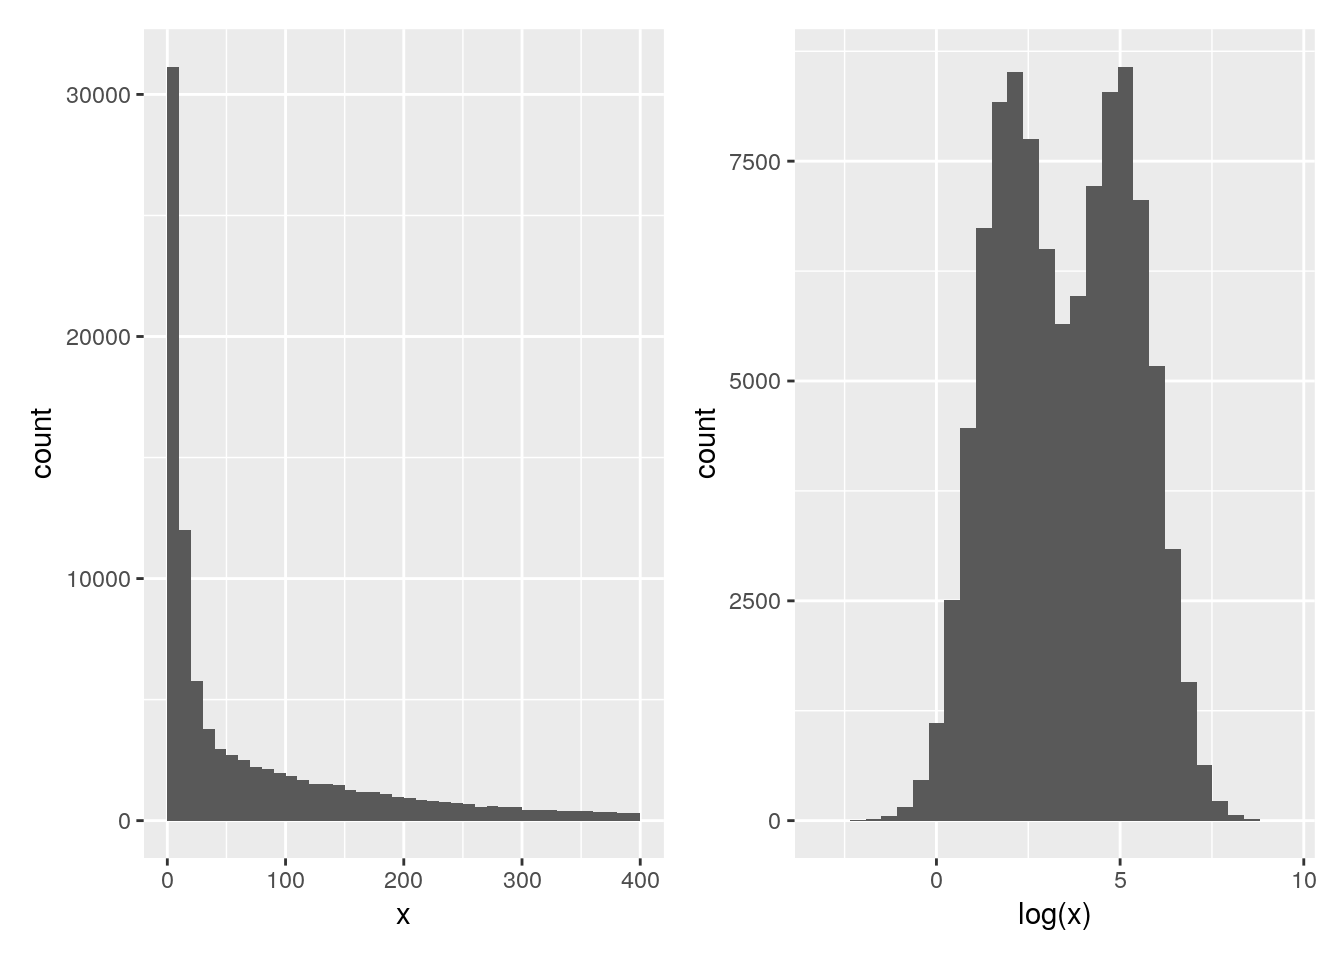
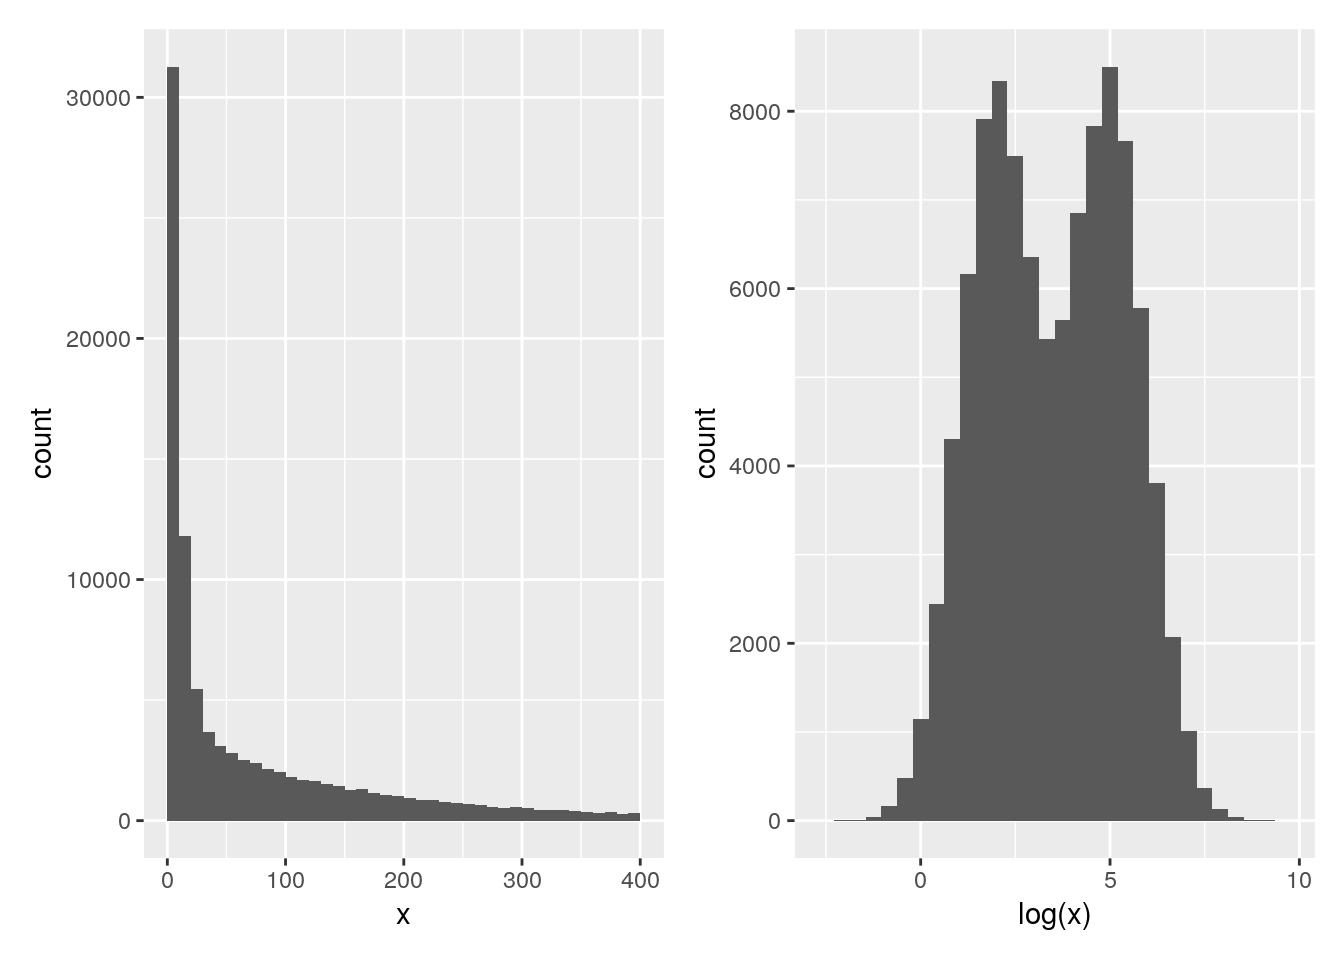
replace all gather() by pivot_longer()

diff --git a/docs/sec-norm.html b/docs/sec-norm.html
@@ -285,14 +285,16 @@ later) and reproduce the figures above. See <code>?cptac</code> for details .</p
 <a class="sourceLine" id="cb208-4" data-line-number="4"></a>
 <a class="sourceLine" id="cb208-5" data-line-number="5"><span class="kw">library</span>(<span class="st">"tidyverse"</span>)</a>
 <a class="sourceLine" id="cb208-6" data-line-number="6"><span class="kw">as_tibble</span>(<span class="kw">exprs</span>(cptac)) <span class="op">%&gt;%</span></a>
-<a class="sourceLine" id="cb208-7" data-line-number="7"><span class="st">    </span><span class="kw">gather</span>(<span class="dt">key =</span> sample, <span class="dt">value =</span> expression) <span class="op">%&gt;%</span></a>
-<a class="sourceLine" id="cb208-8" data-line-number="8"><span class="st">    </span><span class="kw">ggplot</span>(<span class="kw">aes</span>(<span class="dt">x =</span> expression, <span class="dt">colour =</span> sample)) <span class="op">+</span></a>
-<a class="sourceLine" id="cb208-9" data-line-number="9"><span class="st">    </span><span class="kw">geom_density</span>()</a>
-<a class="sourceLine" id="cb208-10" data-line-number="10"></a>
-<a class="sourceLine" id="cb208-11" data-line-number="11"><span class="kw">as_tibble</span>(<span class="kw">exprs</span>(cptac)) <span class="op">%&gt;%</span></a>
-<a class="sourceLine" id="cb208-12" data-line-number="12"><span class="st">    </span><span class="kw">gather</span>(<span class="dt">key =</span> sample, <span class="dt">value =</span> expression) <span class="op">%&gt;%</span></a>
-<a class="sourceLine" id="cb208-13" data-line-number="13"><span class="st">    </span><span class="kw">ggplot</span>(<span class="kw">aes</span>(<span class="dt">x =</span> <span class="kw">log2</span>(expression), <span class="dt">colour =</span> sample)) <span class="op">+</span></a>
-<a class="sourceLine" id="cb208-14" data-line-number="14"><span class="st">    </span><span class="kw">geom_density</span>()</a></code></pre></div>
+<a class="sourceLine" id="cb208-7" data-line-number="7"><span class="st">    </span><span class="kw">pivot_longer</span>(<span class="dt">names_to =</span> <span class="st">"sample"</span>, <span class="dt">values_to =</span> <span class="st">"expression"</span>,</a>
+<a class="sourceLine" id="cb208-8" data-line-number="8">                 <span class="kw">everything</span>()) <span class="op">%&gt;%</span></a>
+<a class="sourceLine" id="cb208-9" data-line-number="9"><span class="st">    </span><span class="kw">ggplot</span>(<span class="kw">aes</span>(<span class="dt">x =</span> expression, <span class="dt">colour =</span> sample)) <span class="op">+</span></a>
+<a class="sourceLine" id="cb208-10" data-line-number="10"><span class="st">    </span><span class="kw">geom_density</span>()</a>
+<a class="sourceLine" id="cb208-11" data-line-number="11"></a>
+<a class="sourceLine" id="cb208-12" data-line-number="12"><span class="kw">as_tibble</span>(<span class="kw">exprs</span>(cptac)) <span class="op">%&gt;%</span></a>
+<a class="sourceLine" id="cb208-13" data-line-number="13"><span class="st">    </span><span class="kw">pivot_longer</span>(<span class="dt">names_to =</span> <span class="st">"sample"</span>, <span class="dt">values_to =</span> <span class="st">"expression"</span>,</a>
+<a class="sourceLine" id="cb208-14" data-line-number="14">                 <span class="kw">everything</span>()) <span class="op">%&gt;%</span></a>
+<a class="sourceLine" id="cb208-15" data-line-number="15"><span class="st">    </span><span class="kw">ggplot</span>(<span class="kw">aes</span>(<span class="dt">x =</span> <span class="kw">log2</span>(expression), <span class="dt">colour =</span> sample)) <span class="op">+</span></a>
+<a class="sourceLine" id="cb208-16" data-line-number="16"><span class="st">    </span><span class="kw">geom_density</span>()</a></code></pre></div>
 <p class="solution-end">
 <span class="fa fa-square-o solution-icon"></span>
 </p>
@@ -530,14 +532,16 @@ the data, you can use the <code>normalise</code> function, defining <code>method
 <a class="sourceLine" id="cb222-3" data-line-number="3">cptac_quant &lt;-<span class="st"> </span><span class="kw">normalise</span>(cptac, <span class="dt">method =</span> <span class="st">"quantiles"</span>)</a>
 <a class="sourceLine" id="cb222-4" data-line-number="4"></a>
 <a class="sourceLine" id="cb222-5" data-line-number="5"><span class="kw">as_tibble</span>(<span class="kw">exprs</span>(cptac)) <span class="op">%&gt;%</span></a>
-<a class="sourceLine" id="cb222-6" data-line-number="6"><span class="st">    </span><span class="kw">gather</span>(<span class="dt">key =</span> sample, <span class="dt">value =</span> expression) <span class="op">%&gt;%</span></a>
-<a class="sourceLine" id="cb222-7" data-line-number="7"><span class="st">    </span><span class="kw">ggplot</span>(<span class="kw">aes</span>(<span class="dt">x =</span> expression, <span class="dt">colour =</span> sample)) <span class="op">+</span></a>
-<a class="sourceLine" id="cb222-8" data-line-number="8"><span class="st">    </span><span class="kw">geom_density</span>()</a></code></pre></div>
+<a class="sourceLine" id="cb222-6" data-line-number="6"><span class="st">    </span><span class="kw">pivot_longer</span>(<span class="dt">names_to =</span> <span class="st">"sample"</span>, <span class="dt">values_to =</span> <span class="st">"expression"</span>,</a>
+<a class="sourceLine" id="cb222-7" data-line-number="7">                 <span class="kw">everything</span>()) <span class="op">%&gt;%</span><span class="st"> </span></a>
+<a class="sourceLine" id="cb222-8" data-line-number="8"><span class="st">    </span><span class="kw">ggplot</span>(<span class="kw">aes</span>(<span class="dt">x =</span> expression, <span class="dt">colour =</span> sample)) <span class="op">+</span></a>
+<a class="sourceLine" id="cb222-9" data-line-number="9"><span class="st">    </span><span class="kw">geom_density</span>()</a></code></pre></div>
 <p><img src="WSBIM1322_files/figure-html/quantnormex-1.png" width="672"></p>
 <div class="sourceCode" id="cb223"><pre class="sourceCode r"><code class="sourceCode r"><a class="sourceLine" id="cb223-1" data-line-number="1"><span class="kw">as_tibble</span>(<span class="kw">exprs</span>(cptac_quant)) <span class="op">%&gt;%</span></a>
-<a class="sourceLine" id="cb223-2" data-line-number="2"><span class="st">    </span><span class="kw">gather</span>(<span class="dt">key =</span> sample, <span class="dt">value =</span> expression) <span class="op">%&gt;%</span></a>
-<a class="sourceLine" id="cb223-3" data-line-number="3"><span class="st">    </span><span class="kw">ggplot</span>(<span class="kw">aes</span>(<span class="dt">x =</span> expression, <span class="dt">colour =</span> sample)) <span class="op">+</span></a>
-<a class="sourceLine" id="cb223-4" data-line-number="4"><span class="st">    </span><span class="kw">geom_density</span>()</a></code></pre></div>
+<a class="sourceLine" id="cb223-2" data-line-number="2"><span class="st">    </span><span class="kw">pivot_longer</span>(<span class="dt">names_to =</span> <span class="st">"sample"</span>, <span class="dt">values_to =</span> <span class="st">"expression"</span>,</a>
+<a class="sourceLine" id="cb223-3" data-line-number="3">                 <span class="kw">everything</span>()) <span class="op">%&gt;%</span><span class="st">     </span></a>
+<a class="sourceLine" id="cb223-4" data-line-number="4"><span class="st">    </span><span class="kw">ggplot</span>(<span class="kw">aes</span>(<span class="dt">x =</span> expression, <span class="dt">colour =</span> sample)) <span class="op">+</span></a>
+<a class="sourceLine" id="cb223-5" data-line-number="5"><span class="st">    </span><span class="kw">geom_density</span>()</a></code></pre></div>
 <p><img src="WSBIM1322_files/figure-html/quantnormex-2.png" width="672"></p>
 <p class="solution-end">
 <span class="fa fa-square-o solution-icon"></span>

diff --git a/docs/sec-vis.html b/docs/sec-vis.html
@@ -860,7 +860,7 @@ of the data.</p>
 <a class="sourceLine" id="cb38-9" data-line-number="9">p2 &lt;-<span class="st">  </span><span class="kw">ggplot</span>(sim, <span class="kw">aes</span>(<span class="kw">log</span>(x))) <span class="op">+</span></a>
 <a class="sourceLine" id="cb38-10" data-line-number="10"><span class="st">    </span><span class="kw">geom_histogram</span>(<span class="dt">bins =</span> <span class="dv">30</span>)</a>
 <a class="sourceLine" id="cb38-11" data-line-number="11">p1 <span class="op">+</span><span class="st"> </span>p2</a></code></pre></div>
-<pre><code>## Warning: Removed 8168 rows containing non-finite values (stat_bin).</code></pre>
+<pre><code>## Warning: Removed 7993 rows containing non-finite values (stat_bin).</code></pre>
 <div class="figure">
 <span id="fig:sim"></span>
 <p class="caption marginnote shownote">
